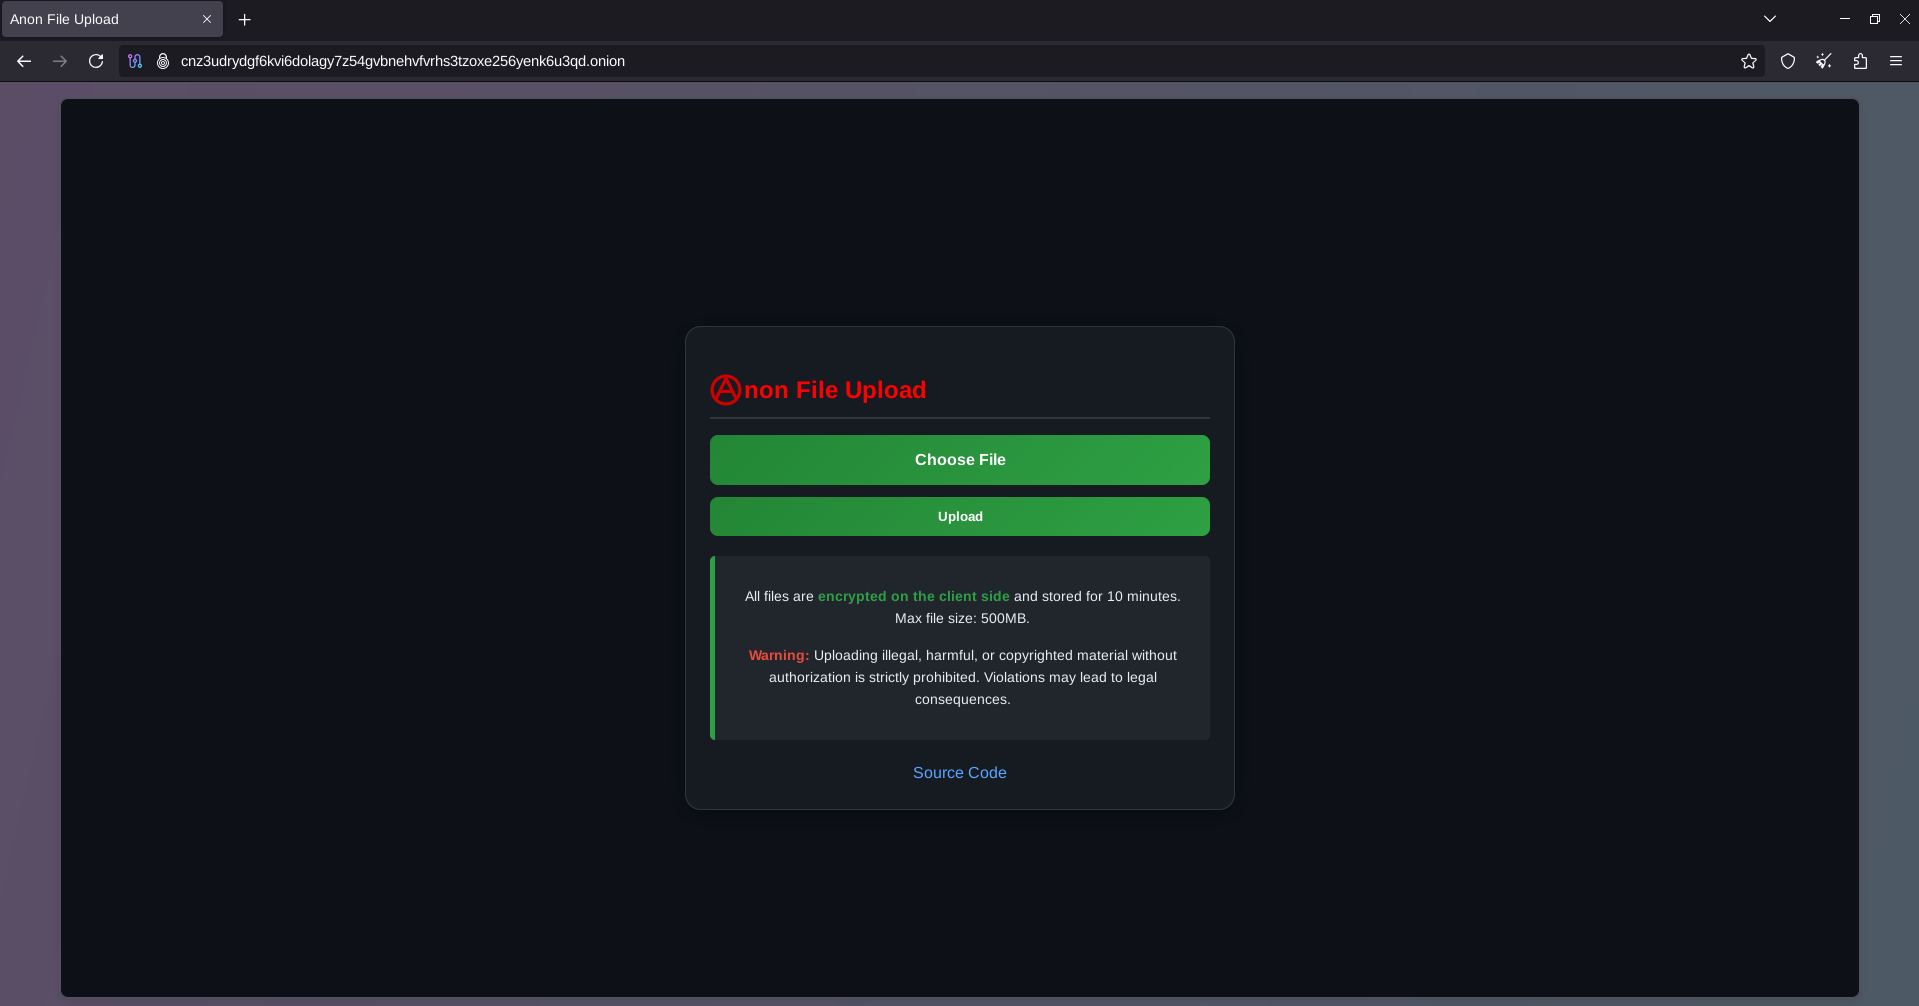
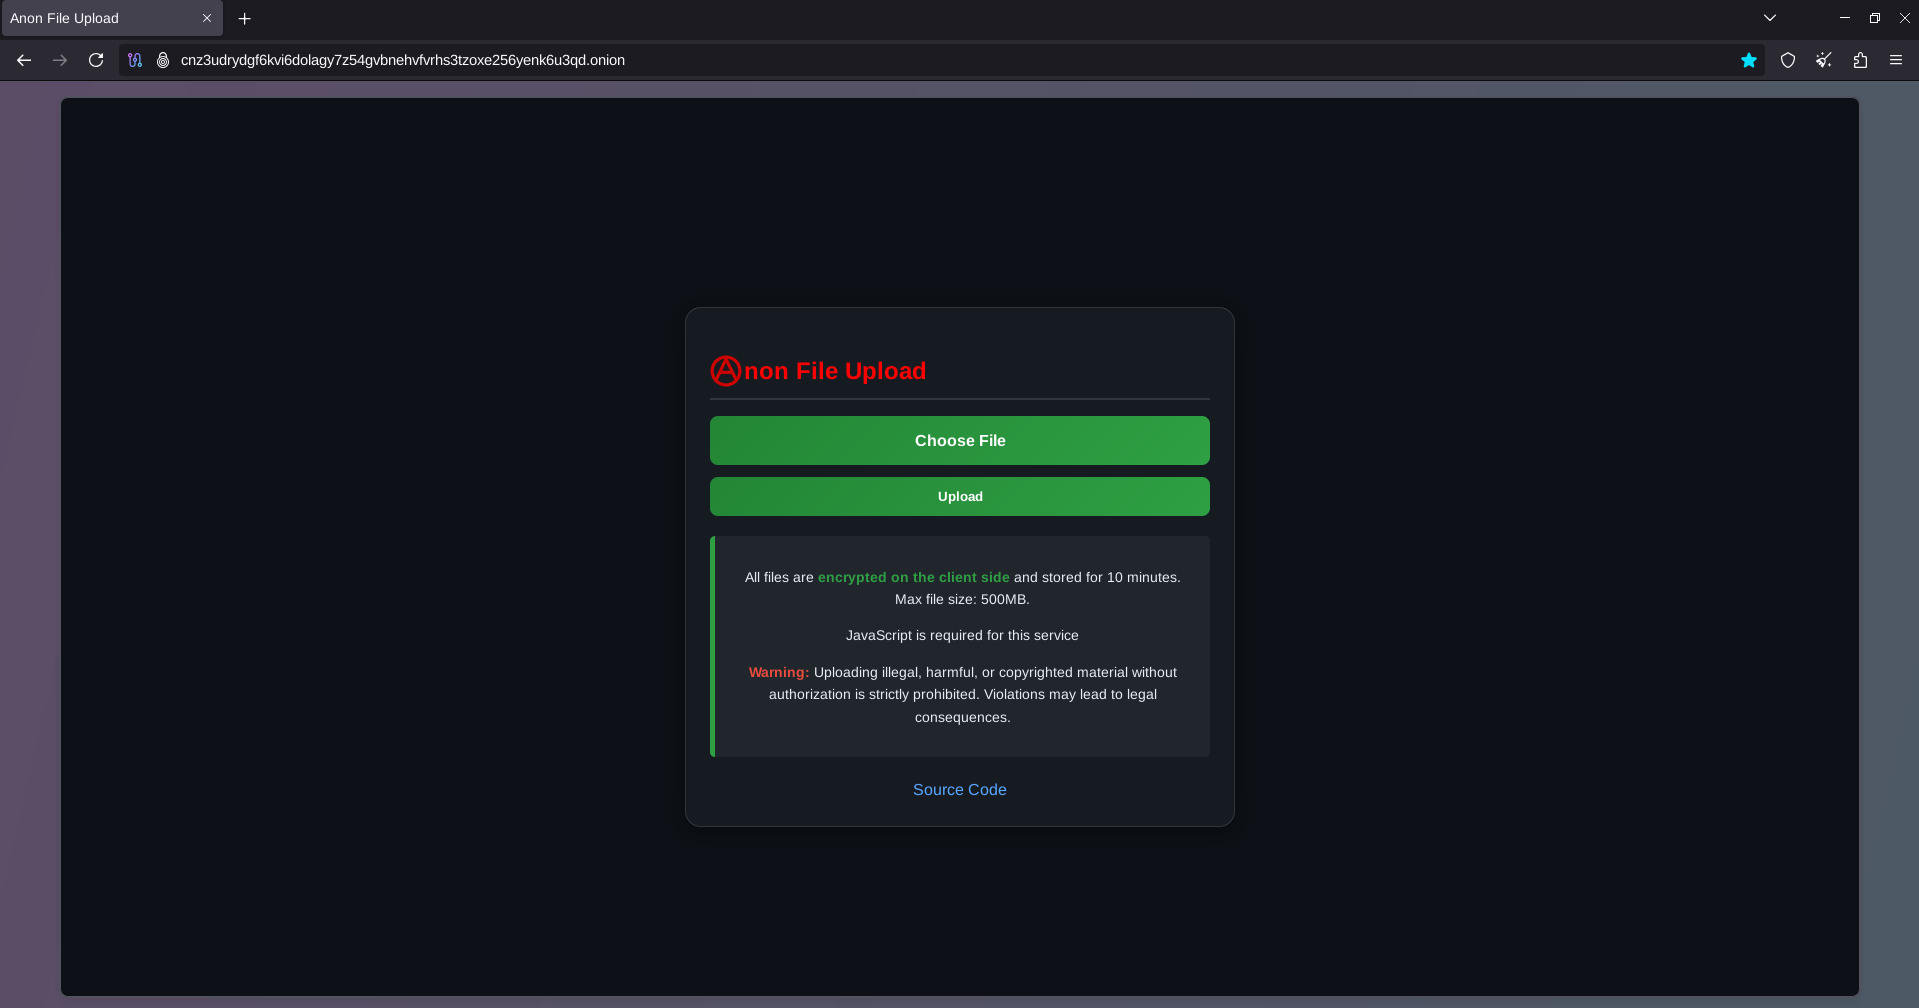
Add JavaScript warning

diff --git a/index.html b/index.html
@@ -171,6 +171,9 @@
         All files are <strong>encrypted on the client side</strong> and stored for 10 minutes. Max file size: 500MB.
       </p>
       <p>
+        JavaScript is required for this service
+      </p>
+      <p>
         <strong class="warning">Warning:</strong> Uploading illegal, harmful, or copyrighted material without authorization is strictly prohibited. Violations may lead to legal consequences.
       </p>
     </div>
